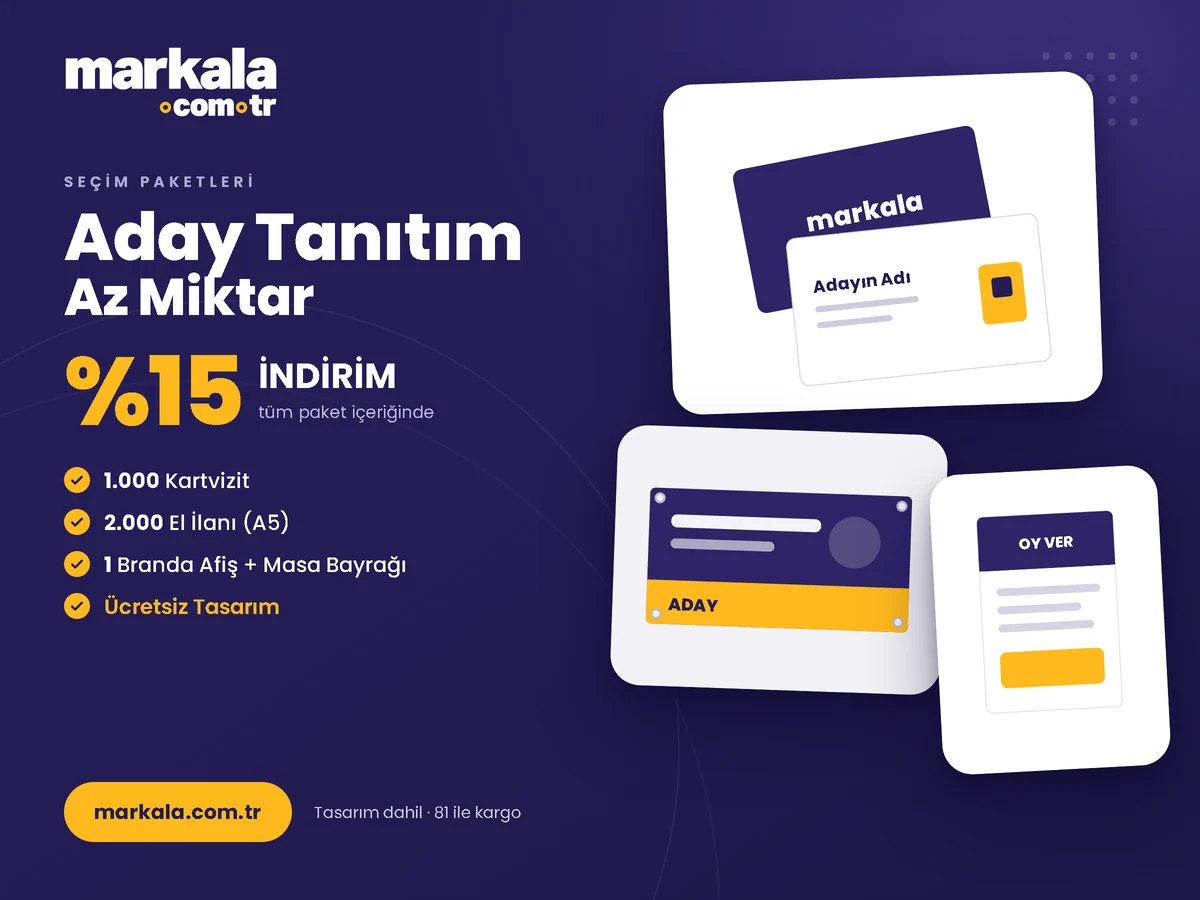
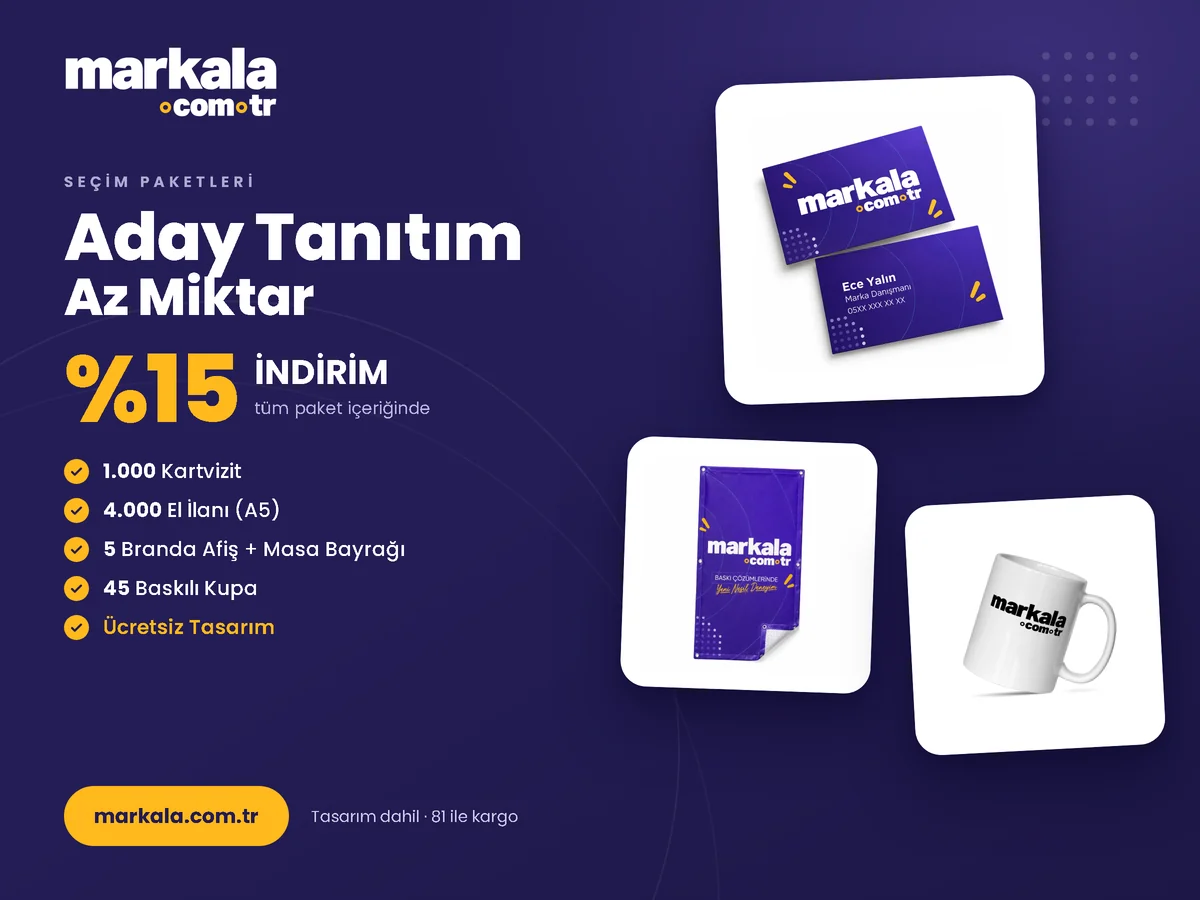
feat(kampanyalar): seçim paketi kartlarında gerçek ürün fotoğrafları
Hasan: "vektörel görsel oluşturma, bizim görsel fotoğraflarımızdan üret; hepsine 3'er
tane koyma — ortaya 4, yüksek pakete 5 görsel sığdır."

Önceki sürümdeki vektör çizimler kaldırıldı. Kartlar artık sitedeki GERÇEK ürün
görsellerini kullanıyor (products.images ilk kaydı): kartvizit, el ilanı, vinil branda,
kırlangıç bayrak, roll-up, kupa. Görsel sayısı pakete göre artıyor: az 3, orta 4, fazla 5.
Fotoğraflar zaten marka renklerinde (lacivert + sarı) olduğu için kart zemini ile
uyumlular. Hepsi 1200×1200 kare; kartlar da kare tutuldu, kırpma en azda.

İçerik listeleri yeni paket kurallarına göre yenilendi: kartvizit 1.000 (en büyükte
2.000), el ilanı 4.000 / 6.000 / 8.000, vinil branda 5 / 8 / 12, masa bayrağı 2'li takım
her pakette, baskılı kupa 45 / 100 / 250. Dekota pano ve gönder bayrağı paketlerden
tamamen çıkarıldı.

scripts/kampanya-gorsel/foto/ altına fotoğrafların yerel kopyaları ve README'ye hangi
dosyanın hangi ürüne ait olduğu eklendi; ürün görseli değişirse yenilenecek.

diff --git a/scripts/kampanya-gorsel/sablon.html b/scripts/kampanya-gorsel/sablon.html
@@ -8,7 +8,6 @@
 <link rel="stylesheet" href="https://fonts.googleapis.com/css2?family=Poppins:wght@400;500;600;700;800&display=swap">
 <style>
   :root{
-    --lacivert-1:#312667;   /* sag ust aydinlik */
     --lacivert-2:#241D56;   /* genel zemin */
     --lacivert-3:#1D1746;   /* sol alt koyu */
     --sari:#FFB91C;
@@ -25,12 +24,10 @@
       linear-gradient(145deg, var(--lacivert-2) 0%, var(--lacivert-2) 45%, var(--lacivert-3) 100%);
     margin:24px auto;
   }
-  /* sol alt kavis — referanstaki ince isik cizgisi */
   .kavis{position:absolute;left:-220px;top:300px;width:900px;height:900px;border-radius:50%;
     border:2px solid rgba(255,255,255,.055);pointer-events:none}
   .kavis.b{left:-340px;top:380px;width:1060px;height:1060px;border-color:rgba(255,255,255,.035)}
-  /* sag ust nokta izgarasi */
-  .noktalar{position:absolute;right:48px;top:52px;display:grid;grid-template-columns:repeat(5,22px);gap:0;opacity:.85}
+  .noktalar{position:absolute;right:48px;top:52px;display:grid;grid-template-columns:repeat(5,22px);opacity:.85}
   .noktalar i{width:22px;height:22px;display:block}
   .noktalar i::after{content:"";display:block;width:8px;height:8px;border-radius:50%;background:rgba(255,255,255,.16)}
 
@@ -40,33 +37,33 @@
   h1{margin-top:12px;font-size:66px;line-height:.99;font-weight:800;color:#fff;letter-spacing:-.015em}
   h1 .kucuk{display:block;font-size:52px;line-height:1.05;letter-spacing:-.01em}
 
-  .indirim{margin-top:26px;display:flex;align-items:flex-end;gap:16px}
-  .indirim .oran{font-size:96px;line-height:.86;font-weight:800;color:var(--sari);letter-spacing:-.03em}
+  .indirim{margin-top:24px;display:flex;align-items:flex-end;gap:16px}
+  .indirim .oran{font-size:94px;line-height:.86;font-weight:800;color:var(--sari);letter-spacing:-.03em}
   .indirim .yan{padding-bottom:8px}
-  .indirim .yan b{display:block;font-size:35px;font-weight:700;color:#fff;letter-spacing:.01em;line-height:1}
+  .indirim .yan b{display:block;font-size:34px;font-weight:700;color:#fff;line-height:1}
   .indirim .yan span{display:block;margin-top:6px;font-size:17px;font-weight:400;color:var(--soluk)}
 
-  ul{margin-top:34px;list-style:none;display:flex;flex-direction:column;gap:16px}
-  li{display:flex;align-items:center;gap:14px;font-size:21px;color:#fff;font-weight:500;line-height:1.1}
+  ul{margin-top:30px;list-style:none;display:flex;flex-direction:column;gap:14px}
+  li{display:flex;align-items:center;gap:14px;font-size:20px;color:#fff;font-weight:500;line-height:1.15}
   li b{font-weight:700}
-  li .tik{flex:none;width:26px;height:26px;border-radius:50%;background:var(--sari);display:grid;place-items:center}
-  li .tik svg{width:14px;height:14px}
+  li .tik{flex:none;width:25px;height:25px;border-radius:50%;background:var(--sari);display:grid;place-items:center}
+  li .tik svg{width:13px;height:13px}
   li.tasarim{color:var(--sari);font-weight:600}
 
-  .alt{position:absolute;left:64px;bottom:58px;display:flex;align-items:center;gap:22px}
-  .pill{background:var(--sari);color:#231B52;font-weight:700;font-size:20px;padding:15px 30px;border-radius:999px;letter-spacing:.01em}
-  .altnot{font-size:16px;color:#CFC8E8;font-weight:400}
+  .alt{position:absolute;left:64px;bottom:54px;display:flex;align-items:center;gap:22px}
+  .pill{background:var(--sari);color:#231B52;font-weight:700;font-size:20px;padding:15px 30px;border-radius:999px}
+  .altnot{font-size:16px;color:#CFC8E8}
 
-  /* --- sag taraf: beyaz yuzen kartlar --- */
+  /* --- sag taraf: gercek urun fotograflari --- */
   .sag{position:absolute;right:0;top:0;width:620px;height:900px}
-  .kutu{position:absolute;background:#fff;border-radius:30px;box-shadow:0 38px 70px rgba(10,6,40,.45),0 8px 18px rgba(10,6,40,.28);overflow:hidden}
-  .kutu.gri{background:#F2F1F6}
-  .kutu svg{display:block;width:100%;height:100%}
+  .foto{position:absolute;background:#fff;border-radius:26px;overflow:hidden;
+    box-shadow:0 34px 64px rgba(10,6,40,.46),0 8px 18px rgba(10,6,40,.3)}
+  .foto img{display:block;width:100%;height:100%;object-fit:cover}
 </style>
 </head>
 <body>
 
-<!-- ======================= AZ MİKTAR ======================= -->
+<!-- ======================= AZ MİKTAR — 3 görsel ======================= -->
 <div class="kart" id="secim-paketi-az">
   <div class="kavis"></div><div class="kavis b"></div>
   <div class="noktalar"><i></i><i></i><i></i><i></i><i></i><i></i><i></i><i></i><i></i><i></i><i></i><i></i><i></i><i></i><i></i><i></i><i></i><i></i><i></i><i></i></div>
@@ -81,8 +78,9 @@
     </div>
     <ul>
       <li><span class="tik"><svg viewBox="0 0 16 16"><path d="M2.5 8.6l3.4 3.4L13.5 4.4" fill="none" stroke="#231B52" stroke-width="2.6" stroke-linecap="round" stroke-linejoin="round"/></svg></span><span><b>1.000</b> Kartvizit</span></li>
-      <li><span class="tik"><svg viewBox="0 0 16 16"><path d="M2.5 8.6l3.4 3.4L13.5 4.4" fill="none" stroke="#231B52" stroke-width="2.6" stroke-linecap="round" stroke-linejoin="round"/></svg></span><span><b>2.000</b> El İlanı (A5)</span></li>
-      <li><span class="tik"><svg viewBox="0 0 16 16"><path d="M2.5 8.6l3.4 3.4L13.5 4.4" fill="none" stroke="#231B52" stroke-width="2.6" stroke-linecap="round" stroke-linejoin="round"/></svg></span><span><b>1</b> Branda Afiş + Masa Bayrağı</span></li>
+      <li><span class="tik"><svg viewBox="0 0 16 16"><path d="M2.5 8.6l3.4 3.4L13.5 4.4" fill="none" stroke="#231B52" stroke-width="2.6" stroke-linecap="round" stroke-linejoin="round"/></svg></span><span><b>4.000</b> El İlanı (A5)</span></li>
+      <li><span class="tik"><svg viewBox="0 0 16 16"><path d="M2.5 8.6l3.4 3.4L13.5 4.4" fill="none" stroke="#231B52" stroke-width="2.6" stroke-linecap="round" stroke-linejoin="round"/></svg></span><span><b>5</b> Branda Afiş + Masa Bayrağı</span></li>
+      <li><span class="tik"><svg viewBox="0 0 16 16"><path d="M2.5 8.6l3.4 3.4L13.5 4.4" fill="none" stroke="#231B52" stroke-width="2.6" stroke-linecap="round" stroke-linejoin="round"/></svg></span><span><b>45</b> Baskılı Kupa</span></li>
       <li class="tasarim"><span class="tik"><svg viewBox="0 0 16 16"><path d="M2.5 8.6l3.4 3.4L13.5 4.4" fill="none" stroke="#231B52" stroke-width="2.6" stroke-linecap="round" stroke-linejoin="round"/></svg></span><span>Ücretsiz Tasarım</span></li>
     </ul>
   </div>
@@ -93,65 +91,13 @@
   </div>
 
   <div class="sag">
-    <!-- kartvizit kutusu -->
-    <div class="kutu" style="left:88px;top:78px;width:430px;height:330px;transform:rotate(-2deg)">
-      <svg viewBox="0 0 430 330">
-        <rect width="430" height="330" fill="#fff"/>
-        <g transform="translate(66 88) rotate(-9)">
-          <rect x="0" y="0" width="246" height="146" rx="9" fill="#2E2466"/>
-          <text x="123" y="74" text-anchor="middle" font-family="Poppins" font-size="26" font-weight="800" fill="#fff">markala</text>
-          <text x="123" y="98" text-anchor="middle" font-family="Poppins" font-size="11" font-weight="700" fill="#fff" letter-spacing="3">COM TR</text>
-          <rect x="94" y="110" width="58" height="5" rx="2.5" fill="#FFB91C"/>
-        </g>
-        <g transform="translate(118 158) rotate(-4)">
-          <rect x="0" y="0" width="252" height="148" rx="9" fill="#fff" stroke="#E6E3EF"/>
-          <rect x="0" y="0" width="252" height="148" rx="9" fill="none" stroke="#D9D5E8"/>
-          <text x="22" y="56" font-family="Poppins" font-size="17" font-weight="700" fill="#241D56">Adayın Adı</text>
-          <rect x="22" y="70" width="104" height="6" rx="3" fill="#CFCADF"/>
-          <rect x="22" y="86" width="76" height="6" rx="3" fill="#CFCADF"/>
-          <rect x="188" y="46" width="44" height="60" rx="6" fill="#FFB91C"/>
-          <rect x="200" y="60" width="20" height="20" rx="3" fill="#241D56"/>
-        </g>
-      </svg>
-    </div>
-    <!-- branda afis kutusu -->
-    <div class="kutu gri" style="left:34px;top:430px;width:330px;height:260px;transform:rotate(2deg)">
-      <svg viewBox="0 0 330 260">
-        <rect width="330" height="260" fill="#F2F1F6"/>
-        <g transform="translate(34 62)">
-          <rect x="0" y="0" width="262" height="136" rx="5" fill="#2E2466"/>
-          <path d="M0 92 H262 V131 a5 5 0 0 1 -5 5 H5 a5 5 0 0 1 -5 -5 Z" fill="#FFB91C"/>
-          <rect x="22" y="26" width="150" height="13" rx="6" fill="#fff" opacity=".95"/>
-          <rect x="22" y="50" width="104" height="10" rx="5" fill="#fff" opacity=".6"/>
-          <circle cx="206" cy="48" r="26" fill="#fff" opacity=".18"/>
-          <text x="22" y="122" font-family="Poppins" font-size="17" font-weight="800" fill="#241D56">ADAY</text>
-          <circle cx="10" cy="10" r="4.5" fill="#F2F1F6" stroke="#B9B3CC" stroke-width="2"/>
-          <circle cx="252" cy="10" r="4.5" fill="#F2F1F6" stroke="#B9B3CC" stroke-width="2"/>
-          <circle cx="10" cy="126" r="4.5" fill="#F2F1F6" stroke="#B9B3CC" stroke-width="2"/>
-          <circle cx="252" cy="126" r="4.5" fill="#F2F1F6" stroke="#B9B3CC" stroke-width="2"/>
-        </g>
-      </svg>
-    </div>
-    <!-- el ilani kutusu -->
-    <div class="kutu" style="left:356px;top:470px;width:228px;height:300px;transform:rotate(-3deg)">
-      <svg viewBox="0 0 228 300">
-        <rect width="228" height="300" fill="#fff"/>
-        <g transform="translate(46 44)">
-          <rect x="0" y="0" width="136" height="196" rx="6" fill="#fff" stroke="#E3E0EC"/>
-          <rect x="0" y="0" width="136" height="54" rx="6" fill="#2E2466"/>
-          <rect x="0" y="40" width="136" height="14" fill="#2E2466"/>
-          <text x="68" y="34" text-anchor="middle" font-family="Poppins" font-size="15" font-weight="800" fill="#fff">OY VER</text>
-          <rect x="16" y="72" width="104" height="8" rx="4" fill="#D7D3E3"/>
-          <rect x="16" y="90" width="84" height="8" rx="4" fill="#D7D3E3"/>
-          <rect x="16" y="108" width="96" height="8" rx="4" fill="#D7D3E3"/>
-          <rect x="16" y="136" width="104" height="36" rx="7" fill="#FFB91C"/>
-        </g>
-      </svg>
-    </div>
+    <div class="foto" style="left:140px;top:80px;width:320px;height:320px;transform:rotate(-2deg)"><img src="foto/kartvizit.webp" alt=""></div>
+    <div class="foto" style="left:44px;top:440px;width:250px;height:250px;transform:rotate(2deg)"><img src="foto/branda.webp" alt=""></div>
+    <div class="foto" style="left:330px;top:500px;width:250px;height:250px;transform:rotate(-3deg)"><img src="foto/kupa.webp" alt=""></div>
   </div>
 </div>
 
-<!-- ======================= ORTA MİKTAR ======================= -->
+<!-- ======================= ORTA MİKTAR — 4 görsel ======================= -->
 <div class="kart" id="secim-paketi-orta">
   <div class="kavis"></div><div class="kavis b"></div>
   <div class="noktalar"><i></i><i></i><i></i><i></i><i></i><i></i><i></i><i></i><i></i><i></i><i></i><i></i><i></i><i></i><i></i><i></i><i></i><i></i><i></i><i></i></div>
@@ -165,10 +111,10 @@
       <div class="yan"><b>İNDİRİM</b><span>tüm paket içeriğinde</span></div>
     </div>
     <ul>
-      <li><span class="tik"><svg viewBox="0 0 16 16"><path d="M2.5 8.6l3.4 3.4L13.5 4.4" fill="none" stroke="#231B52" stroke-width="2.6" stroke-linecap="round" stroke-linejoin="round"/></svg></span><span><b>2.000</b> Kartvizit</span></li>
-      <li><span class="tik"><svg viewBox="0 0 16 16"><path d="M2.5 8.6l3.4 3.4L13.5 4.4" fill="none" stroke="#231B52" stroke-width="2.6" stroke-linecap="round" stroke-linejoin="round"/></svg></span><span><b>4.000</b> El İlanı (A5)</span></li>
-      <li><span class="tik"><svg viewBox="0 0 16 16"><path d="M2.5 8.6l3.4 3.4L13.5 4.4" fill="none" stroke="#231B52" stroke-width="2.6" stroke-linecap="round" stroke-linejoin="round"/></svg></span><span><b>10</b> Kırlangıç Bayrak</span></li>
-      <li><span class="tik"><svg viewBox="0 0 16 16"><path d="M2.5 8.6l3.4 3.4L13.5 4.4" fill="none" stroke="#231B52" stroke-width="2.6" stroke-linecap="round" stroke-linejoin="round"/></svg></span><span><b>2</b> Branda Afiş + <b>2</b> Dekota Pano</span></li>
+      <li><span class="tik"><svg viewBox="0 0 16 16"><path d="M2.5 8.6l3.4 3.4L13.5 4.4" fill="none" stroke="#231B52" stroke-width="2.6" stroke-linecap="round" stroke-linejoin="round"/></svg></span><span><b>1.000</b> Kartvizit · <b>6.000</b> El İlanı</span></li>
+      <li><span class="tik"><svg viewBox="0 0 16 16"><path d="M2.5 8.6l3.4 3.4L13.5 4.4" fill="none" stroke="#231B52" stroke-width="2.6" stroke-linecap="round" stroke-linejoin="round"/></svg></span><span><b>8</b> Branda Afiş + <b>10</b> Kırlangıç Bayrak</span></li>
+      <li><span class="tik"><svg viewBox="0 0 16 16"><path d="M2.5 8.6l3.4 3.4L13.5 4.4" fill="none" stroke="#231B52" stroke-width="2.6" stroke-linecap="round" stroke-linejoin="round"/></svg></span><span><b>100</b> Baskılı Kupa</span></li>
+      <li><span class="tik"><svg viewBox="0 0 16 16"><path d="M2.5 8.6l3.4 3.4L13.5 4.4" fill="none" stroke="#231B52" stroke-width="2.6" stroke-linecap="round" stroke-linejoin="round"/></svg></span><span>Masa Bayrağı 2'li Takım</span></li>
       <li class="tasarim"><span class="tik"><svg viewBox="0 0 16 16"><path d="M2.5 8.6l3.4 3.4L13.5 4.4" fill="none" stroke="#231B52" stroke-width="2.6" stroke-linecap="round" stroke-linejoin="round"/></svg></span><span>Ücretsiz Tasarım</span></li>
     </ul>
   </div>
@@ -179,67 +125,14 @@
   </div>
 
   <div class="sag">
-    <!-- kirlangic bayraklar -->
-    <div class="kutu" style="left:96px;top:66px;width:420px;height:356px;transform:rotate(-2deg)">
-      <svg viewBox="0 0 420 356">
-        <rect width="420" height="356" fill="#fff"/>
-        <g>
-          <g transform="translate(96 44)">
-            <rect x="0" y="0" width="7" height="268" rx="3.5" fill="#C9C5D8"/>
-            <path d="M7 6 H106 L82 112 L106 218 H7 Z" fill="#2E2466"/>
-            <rect x="24" y="52" width="58" height="9" rx="4.5" fill="#fff" opacity=".9"/>
-            <rect x="24" y="70" width="40" height="7" rx="3.5" fill="#FFB91C"/>
-            <ellipse cx="54" cy="282" rx="48" ry="9" fill="#EFEDF5"/>
-          </g>
-          <g transform="translate(214 60)">
-            <rect x="0" y="0" width="7" height="248" rx="3.5" fill="#C9C5D8"/>
-            <path d="M7 6 H98 L76 104 L98 202 H7 Z" fill="#FFB91C"/>
-            <rect x="22" y="48" width="52" height="9" rx="4.5" fill="#241D56" opacity=".85"/>
-            <rect x="22" y="66" width="34" height="7" rx="3.5" fill="#241D56" opacity=".55"/>
-            <ellipse cx="50" cy="262" rx="44" ry="8" fill="#EFEDF5"/>
-          </g>
-        </g>
-      </svg>
-    </div>
-    <!-- dekota pano -->
-    <div class="kutu gri" style="left:40px;top:444px;width:300px;height:250px;transform:rotate(2deg)">
-      <svg viewBox="0 0 300 250">
-        <rect width="300" height="250" fill="#F2F1F6"/>
-        <g transform="translate(52 40)">
-          <rect x="6" y="8" width="192" height="138" rx="4" fill="#CDC8DD" opacity=".55"/>
-          <rect x="0" y="0" width="192" height="138" rx="4" fill="#2E2466"/>
-          <rect x="0" y="104" width="192" height="34" fill="#FFB91C"/>
-          <circle cx="44" cy="52" r="24" fill="#fff" opacity=".2"/>
-          <rect x="80" y="36" width="88" height="11" rx="5.5" fill="#fff" opacity=".92"/>
-          <rect x="80" y="56" width="62" height="9" rx="4.5" fill="#fff" opacity=".55"/>
-          <text x="12" y="128" font-family="Poppins" font-size="15" font-weight="800" fill="#241D56">BAĞIMSIZ ADAY</text>
-        </g>
-      </svg>
-    </div>
-    <!-- kartvizit + el ilani -->
-    <div class="kutu" style="left:340px;top:468px;width:244px;height:298px;transform:rotate(-3deg)">
-      <svg viewBox="0 0 244 298">
-        <rect width="244" height="298" fill="#fff"/>
-        <g transform="translate(40 50)">
-          <rect x="0" y="0" width="140" height="190" rx="6" fill="#fff" stroke="#E3E0EC"/>
-          <rect x="0" y="0" width="140" height="56" rx="6" fill="#2E2466"/>
-          <rect x="0" y="42" width="140" height="14" fill="#2E2466"/>
-          <text x="70" y="35" text-anchor="middle" font-family="Poppins" font-size="15" font-weight="800" fill="#fff">OY VER</text>
-          <rect x="16" y="74" width="108" height="8" rx="4" fill="#D7D3E3"/>
-          <rect x="16" y="92" width="88" height="8" rx="4" fill="#D7D3E3"/>
-          <rect x="16" y="110" width="100" height="8" rx="4" fill="#D7D3E3"/>
-          <rect x="16" y="140" width="108" height="34" rx="7" fill="#FFB91C"/>
-        </g>
-        <g transform="translate(74 202) rotate(-7)">
-          <rect x="0" y="0" width="112" height="64" rx="6" fill="#2E2466"/>
-          <text x="56" y="38" text-anchor="middle" font-family="Poppins" font-size="15" font-weight="800" fill="#fff">markala</text>
-        </g>
-      </svg>
-    </div>
+    <div class="foto" style="left:72px;top:96px;width:250px;height:250px;transform:rotate(-2deg)"><img src="foto/elilani.webp" alt=""></div>
+    <div class="foto" style="left:344px;top:60px;width:236px;height:236px;transform:rotate(2deg)"><img src="foto/branda.webp" alt=""></div>
+    <div class="foto" style="left:48px;top:392px;width:258px;height:258px;transform:rotate(2deg)"><img src="foto/kirlangic.webp" alt=""></div>
+    <div class="foto" style="left:340px;top:376px;width:246px;height:246px;transform:rotate(-3deg)"><img src="foto/kupa.webp" alt=""></div>
   </div>
 </div>
 
-<!-- ======================= FAZLA MİKTAR ======================= -->
+<!-- ======================= FAZLA MİKTAR — 5 görsel ======================= -->
 <div class="kart" id="secim-paketi-fazla">
   <div class="kavis"></div><div class="kavis b"></div>
   <div class="noktalar"><i></i><i></i><i></i><i></i><i></i><i></i><i></i><i></i><i></i><i></i><i></i><i></i><i></i><i></i><i></i><i></i><i></i><i></i><i></i><i></i></div>
@@ -253,10 +146,10 @@
       <div class="yan"><b>İNDİRİM</b><span>tüm paket içeriğinde</span></div>
     </div>
     <ul>
-      <li><span class="tik"><svg viewBox="0 0 16 16"><path d="M2.5 8.6l3.4 3.4L13.5 4.4" fill="none" stroke="#231B52" stroke-width="2.6" stroke-linecap="round" stroke-linejoin="round"/></svg></span><span><b>5.000</b> Kartvizit · <b>8.000</b> El İlanı</span></li>
-      <li><span class="tik"><svg viewBox="0 0 16 16"><path d="M2.5 8.6l3.4 3.4L13.5 4.4" fill="none" stroke="#231B52" stroke-width="2.6" stroke-linecap="round" stroke-linejoin="round"/></svg></span><span><b>25</b> Kırlangıç + <b>2</b> Gönder Bayrağı</span></li>
-      <li><span class="tik"><svg viewBox="0 0 16 16"><path d="M2.5 8.6l3.4 3.4L13.5 4.4" fill="none" stroke="#231B52" stroke-width="2.6" stroke-linecap="round" stroke-linejoin="round"/></svg></span><span><b>3</b> Branda Afiş · <b>5</b> Pano · Roll-Up</span></li>
-      <li><span class="tik"><svg viewBox="0 0 16 16"><path d="M2.5 8.6l3.4 3.4L13.5 4.4" fill="none" stroke="#231B52" stroke-width="2.6" stroke-linecap="round" stroke-linejoin="round"/></svg></span><span><b>1.000</b> Broşür + Araç Sticker</span></li>
+      <li><span class="tik"><svg viewBox="0 0 16 16"><path d="M2.5 8.6l3.4 3.4L13.5 4.4" fill="none" stroke="#231B52" stroke-width="2.6" stroke-linecap="round" stroke-linejoin="round"/></svg></span><span><b>2.000</b> Kartvizit · <b>8.000</b> El İlanı</span></li>
+      <li><span class="tik"><svg viewBox="0 0 16 16"><path d="M2.5 8.6l3.4 3.4L13.5 4.4" fill="none" stroke="#231B52" stroke-width="2.6" stroke-linecap="round" stroke-linejoin="round"/></svg></span><span><b>12</b> Branda Afiş + <b>25</b> Kırlangıç Bayrak</span></li>
+      <li><span class="tik"><svg viewBox="0 0 16 16"><path d="M2.5 8.6l3.4 3.4L13.5 4.4" fill="none" stroke="#231B52" stroke-width="2.6" stroke-linecap="round" stroke-linejoin="round"/></svg></span><span><b>2</b> Roll-Up · Araç Sticker · <b>1.000</b> Broşür</span></li>
+      <li><span class="tik"><svg viewBox="0 0 16 16"><path d="M2.5 8.6l3.4 3.4L13.5 4.4" fill="none" stroke="#231B52" stroke-width="2.6" stroke-linecap="round" stroke-linejoin="round"/></svg></span><span><b>250</b> Baskılı Kupa</span></li>
       <li class="tasarim"><span class="tik"><svg viewBox="0 0 16 16"><path d="M2.5 8.6l3.4 3.4L13.5 4.4" fill="none" stroke="#231B52" stroke-width="2.6" stroke-linecap="round" stroke-linejoin="round"/></svg></span><span>Ücretsiz Tasarım</span></li>
     </ul>
   </div>
@@ -267,68 +160,11 @@
   </div>
 
   <div class="sag">
-    <!-- roll-up + gonder bayragi -->
-    <div class="kutu" style="left:100px;top:58px;width:418px;height:368px;transform:rotate(-2deg)">
-      <svg viewBox="0 0 418 368">
-        <rect width="418" height="368" fill="#fff"/>
-        <!-- roll-up -->
-        <g transform="translate(74 40)">
-          <rect x="0" y="0" width="128" height="250" rx="5" fill="#2E2466"/>
-          <rect x="0" y="186" width="128" height="64" fill="#FFB91C"/>
-          <circle cx="64" cy="70" r="32" fill="#fff" opacity=".2"/>
-          <rect x="24" y="118" width="80" height="12" rx="6" fill="#fff" opacity=".92"/>
-          <rect x="34" y="140" width="60" height="9" rx="4.5" fill="#fff" opacity=".55"/>
-          <text x="64" y="226" text-anchor="middle" font-family="Poppins" font-size="16" font-weight="800" fill="#241D56">ADAY</text>
-          <rect x="-8" y="250" width="144" height="12" rx="6" fill="#D7D3E3"/>
-          <rect x="60" y="262" width="8" height="26" fill="#D7D3E3"/>
-        </g>
-        <!-- gonder bayragi -->
-        <g transform="translate(246 44)">
-          <rect x="0" y="0" width="7" height="268" rx="3.5" fill="#C9C5D8"/>
-          <circle cx="3.5" cy="-4" r="6" fill="#FFB91C"/>
-          <path d="M7 10 H104 V96 H7 Z" fill="#2E2466"/>
-          <rect x="22" y="34" width="56" height="10" rx="5" fill="#fff" opacity=".9"/>
-          <rect x="22" y="54" width="36" height="8" rx="4" fill="#FFB91C"/>
-          <ellipse cx="50" cy="282" rx="48" ry="9" fill="#EFEDF5"/>
-        </g>
-      </svg>
-    </div>
-    <!-- arac sticker -->
-    <div class="kutu gri" style="left:44px;top:448px;width:302px;height:246px;transform:rotate(2deg)">
-      <svg viewBox="0 0 302 246">
-        <rect width="302" height="246" fill="#F2F1F6"/>
-        <g transform="translate(34 62)">
-          <path d="M8 86 L26 36 Q30 24 44 24 H160 Q174 24 180 36 L200 86 Z" fill="#DCD8E7"/>
-          <rect x="0" y="86" width="208" height="46" rx="10" fill="#2E2466"/>
-          <rect x="34" y="34" width="54" height="40" rx="5" fill="#EFEDF5"/>
-          <rect x="98" y="34" width="62" height="40" rx="5" fill="#EFEDF5"/>
-          <rect x="20" y="100" width="96" height="11" rx="5.5" fill="#fff" opacity=".92"/>
-          <rect x="20" y="117" width="58" height="8" rx="4" fill="#FFB91C"/>
-          <circle cx="48" cy="134" r="16" fill="#3B3470"/><circle cx="48" cy="134" r="7" fill="#D7D3E3"/>
-          <circle cx="162" cy="134" r="16" fill="#3B3470"/><circle cx="162" cy="134" r="7" fill="#D7D3E3"/>
-        </g>
-      </svg>
-    </div>
-    <!-- brosur + kartvizit -->
-    <div class="kutu" style="left:344px;top:472px;width:240px;height:292px;transform:rotate(-3deg)">
-      <svg viewBox="0 0 240 292">
-        <rect width="240" height="292" fill="#fff"/>
-        <g transform="translate(34 56)">
-          <rect x="0" y="0" width="56" height="150" rx="4" fill="#2E2466"/>
-          <rect x="56" y="0" width="56" height="150" rx="0" fill="#FFB91C"/>
-          <rect x="112" y="0" width="56" height="150" rx="4" fill="#2E2466"/>
-          <rect x="14" y="60" width="28" height="7" rx="3.5" fill="#fff" opacity=".85"/>
-          <rect x="70" y="60" width="28" height="7" rx="3.5" fill="#241D56" opacity=".8"/>
-          <rect x="126" y="60" width="28" height="7" rx="3.5" fill="#fff" opacity=".85"/>
-        </g>
-        <g transform="translate(62 206) rotate(-7)">
-          <rect x="0" y="0" width="116" height="64" rx="6" fill="#fff" stroke="#DDD9E9"/>
-          <text x="16" y="30" font-family="Poppins" font-size="13" font-weight="700" fill="#241D56">Adayın Adı</text>
-          <rect x="16" y="40" width="46" height="6" rx="3" fill="#CFCADF"/>
-          <rect x="86" y="18" width="16" height="30" rx="3" fill="#FFB91C"/>
-        </g>
-      </svg>
-    </div>
+    <div class="foto" style="left:66px;top:64px;width:240px;height:240px;transform:rotate(-2deg)"><img src="foto/kartvizit.webp" alt=""></div>
+    <div class="foto" style="left:338px;top:40px;width:236px;height:236px;transform:rotate(2deg)"><img src="foto/branda.webp" alt=""></div>
+    <div class="foto" style="left:40px;top:330px;width:224px;height:224px;transform:rotate(2deg)"><img src="foto/kirlangic.webp" alt=""></div>
+    <div class="foto" style="left:310px;top:312px;width:240px;height:240px;transform:rotate(-3deg)"><img src="foto/rollup.webp" alt=""></div>
+    <div class="foto" style="left:170px;top:586px;width:250px;height:250px;transform:rotate(2deg)"><img src="foto/kupa.webp" alt=""></div>
   </div>
 </div>
 

diff --git a/scripts/kampanya-gorsel/README.md b/scripts/kampanya-gorsel/README.md
@@ -17,6 +17,27 @@ cp secim-paketi-*.webp ../../apps/web/public/images/kampanyalar/
 Sonra yeni slug'ı `apps/web/src/app/api/kampanyalar/route.ts` içindeki `BUNDLE_IMAGES`
 haritasına ekle, yoksa dosya durur ama kart yedeğe düşer.
 
+## Görseller
+
+Kartlardaki ürün fotoğrafları UYDURMA ÇİZİM DEĞİL, sitedeki gerçek ürün görselleri
+(`products.images` ilk kaydı). `foto/` klasöründe yerel kopyaları duruyor; kaynakları:
+
+| dosya | ürün |
+|---|---|
+| kartvizit.webp | klasik-kartvizit |
+| elilani.webp | el-ilani |
+| brosur.webp | brosur |
+| branda.webp | avrupa-vinil-branda |
+| kirlangic.webp | kirlangic-bayrak-3m |
+| masabayragi.webp | masa-bayragi-krom |
+| kupa.webp | klasik-beyaz-kupa |
+| rollup.webp | rollup-standart |
+| aracsticker.webp | arac-sticker-yan |
+
+Ürün görseli değişirse buradaki kopyayı da yenile. Kart başına görsel sayısı pakete göre
+artar: az 3, orta 4, fazla 5 (Hasan, 9 Eki). Hepsi kare (1200×1200) olduğu için kartlar da
+kare tutuluyor; `object-fit:cover` ile kırpma en aza iniyor.
+
 ## Şablon kuralları
 
 - Tuval 1200×900, zemin `#241D56` (sağ üstte `#3A2E78` ışık), marka sarısı `#FFB91C`.
